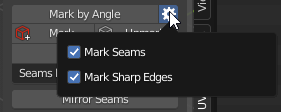
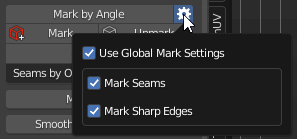
upd

diff --git a/mkdocs/changelg/release_note_3.0.md b/mkdocs/changelg/release_note_3.0.md
@@ -1,0 +1,110 @@
+# Version 3.0
+
+<div style="position: relative; width: 100%; height: 0; padding-bottom: 56.25%;">
+<iframe src="https://www.youtube.com/embed/p2bqP2I-Urc" style="position: absolute; top: 0; left: 0; width: 100%; height: 100%;" allowfullscreen="" seamless="" frameborder="0"></iframe>
+</div>
+<br><br>
+
+## General
+
+- Added Relax operator. This is a new unwrapping method that is well suited for working with organic models.
+- Added World Orient operator that rotates Islands the way they are oriented in the model.
+- Added Reshape Island operator which changes Island depending on the preset (Selected, U/V Direction, Borders). 
+- Added Copy UV / Paste UV operators to transfer UV coordinates between UV Maps.
+- Added Blender 3.2 support.
+
+## UI
+
+### Main Menu
+
+ - Added Advanced UV Maps panel to UV Editor.
+ - Changed appearance of Transform panel. Operators independent of Island/Elements settings have been moved to the top of the panel.
+
+### Pie Menu
+
+ - Added Relax operator (section 1).
+
+## Operators
+
+### Advanced UV Maps
+
+- Added Advanced UV Maps panel to UV Editor.
+- Added options to specify UV Map name template.
+- Added Copy UV / Paste UV operators to transfer UV coordinates between UV Maps.
+- Added Unwrap Modes when creating a new UV Map (Default, Smart, Cube, Cylinder, Sphere).
+- Fixed a bug when creating a new UV Map.
+
+### Seams Groups
+
+- Fixed a bug when assigning Seams without an active group. 
+
+### Unwrap
+
+- Added ability to work in Mark System not only with global properties but also with local ones.
+- Added Mark Sharp by UV Borders operator.
+- Added options to clean up existing Seams for Mark Seams by UV Borders operator.
+- Improved performance of Mark by Angle operator.
+- Fixed a bug that caused the UV map to be destroyed when changing UV coordinates when the Display - Finished was enabled.
+
+### Select
+
+- Added Select UV Borders operator.
+- Added Select Edges By Direction operator. (Blender 3.2 only)
+- Fixed a bug in UV Sync Off mode for Select Similar operator.
+
+
+### Checker Map
+
+- Added ability to tile checker texture for Material Preview and Rendered display modes.
+- Added checker texture to check Islands orientation.
+- Fixed automatic updating of the texture in UV Editor when the checker is enabled.
+- Fixed a bug when switching if the material has multiple Material Output.
+
+### Texel Density
+
+- Fixed a bug setting Texel Density for islands with zero areas.
+- Fixed a bug in working with Instances.
+- Optimized value accuracy.
+
+### Transform
+
+- Added Relax operator. This is a new unwrapping method that is well suited for working with organic models.
+- Added integration with Zen Sets addon. Used to display Island Mesh Errors in Relax operator.
+- Added World Orient operator that rotates Islands the way they are oriented in the model.
+- Added options for orienting Islands in Quadrify operator (Horizontal/Vertical).
+- Added Average Texel Density option for Quadrify operator.
+- Fixed a bug with the Quadrify operator when working with several objects when Islands were not processed and increased significantly in size.
+<br> <br>
+- Added Reshape Island operator which changes Island depending on the preset. 
+    - Selected. Aligns selected Edge Loops and relaxes unselected vertices. 
+    - U/V Direction. Aligns Edges located in the corresponding direction.
+    - Borders. Aligns edges into straight lines according to the given criteria.
+<br> <br>
+- Updated Scale operator, the input method of initial data is divided into two modes.
+    - Axis. Default mode with new Values Tuner to quickly change settings.
+    - Units. The mode in which you can set Scale based on the estimated size of the UV area.
+<br> <br>
+- Added Fit into Region operator for locating Islands in a given region with the ability to capture  Region Size from Selected Islands/Vertices.
+
+- Fixed a bug with the Fit operator when working with islands with zero thickness.
+Stack
+- Added options for shifting islands for Stack operator.
+- Added Stack Collect Mode Simple (Simple Stack, Simple Unstack).
+- Added ability to work between UV Maps for Copy/Paste operators.
+- Added Paste operator options (Stack Offset, Keep Proportion).
+- Fixed a bug with the Paste operator in polygonal mode.
+- Fixed bug of Paste operator with Transfer mode if Islands are the same.
+
+### Sticky UV Editor
+
+- Added the ability to remember Pivot settings in UV Editor.
+- Added option to open widget properties (Ctrl+Shift+LMB on the Sticky UV icon).
+- Fixed a bug when the Sticky UV Editor widget does not work in combination with Alt.
+- Fixed a bug with closing windows.
+
+### Preferences
+
+- Added a button to download the Zen Core library.
+- Added a list with all Zen add-ons.
+- Added ability to assign Modifier Key to call alternative commands in the interface.
+- Improved add-on update system. Added recommendations and filters when selecting a file.

diff --git a/mkdocs/operators/stack_copy_paste.md b/mkdocs/operators/stack_copy_paste.md
@@ -1,1 +1,67 @@
 # Copy / Paste (Stacks)
+
+Allows you to transfer the parameters from one island to another.
+
+---
+## Copy
+
+ - Copy parameters of selected Islands/Faces and save them.
+
+### Copy Operator Options
+
+![](../img/screen/stack/stack_copy_op_prefs.png)
+
+- **Island** - Copy and save parameters from the selected island.
+- **Faces** - Copy and save parameters from the selected faces.
+
+---
+## Paste
+
+ - Paste the parameters saved earlier by [Copy](#copy) to selected Islands/Faces.
+
+### Paste Operator Options
+
+![](../img/screen/stack/stack_paste_op_prefs.png)
+
+- **Type** - Which selection type needs to be processing.
+    - **Island** - Paste parameters to the selected island.
+    - **Faces** - Paste parameters to the selected faces.
+
+- **Mode** - 
+    - **Stack** - Perform stacking selection to the copied by [Copy](#copy).
+    - **Transfer** - Transfer paramethers to the selection stored by [Copy](#copy).
+
+#### Stacking Options:
+
+![](../img/screen/stack/stack_paste_mode_stack_options.png)
+
+- **Stack Offset** - Use the Stack Offset option. Learn More in this article: [Stack](../stack.md#stack)
+- **Area Matching** - Set strict requirements for Islands Area Matching when Stacking. Disable this option if the Islands have a slightly different Area.
+
+#### Transfer Options:
+
+![](../img/screen/stack/stack_paste_mode_transfer_options.png)
+
+- **Stack Offset** - Use the Stack Offset option. Learn More in this article: [Stack](../stack.md#stack)
+- **Position** - Allow transfer position.
+- **Size** - Allow transfer size.
+    - **Nothing** - Do not perform the size transferring.
+    - **Size (Fit Islands)** - Transfer the size.
+        - **Keep Proportion** - Keep the proportion of the selected island.
+        - **Horizontally / Vertically** - Which direction needs to be matched.
+    - **Texel Density** - Transfer the Texel Density.
+
+---
+## Usage Samples.
+
+### Paste: Mode - Stack.
+
+![](../img/gifs/stack_copy_paste/stack_copy_paste_sample.gif)
+
+### Paste: Mode - Transfer - Position.
+
+![](../img/gifs/stack_copy_paste/stack_c_p_transfer_pos.gif)
+
+### Paste: Mode - Transfer - Size - Fit.
+
+![](../img/gifs/stack_copy_paste/stack_c_p_transfer_size_fit.gif)

diff --git a/mkdocs/preferences.md b/mkdocs/preferences.md
@@ -1,46 +1,30 @@
-# Preferences
+# Preferences System
+
+---
+
+## Preferences subpanel
 !!! Panel
     ![Preferences](img/screen/preferences/MainPanel_2_1_3.png)
 
-## Zen UV Keymaps ![Zen UV Pie Menu](img/icons/zen-uv@2x.png)
-Set Shortcuts for Zen UV Menus.
-
-## Reset Preferences
-Reset Zen UV preferences to the Default state.
+ - ![](img/icons/zen-uv@2x.png) **Zen UV Keymaps** - Set Shortcuts for Zen UV Menus.
+ - **Reset Preferences** - Reset Zen UV preferences to the Default state.
 
 ---
 
-## Display Panel
+## Display subpanel
 ![Preferences](img/screen/preferences/PanelDisplay.png)
 
-### HOps UV Display 
-Display UV's in 3D View using Hard Ops addon.
-
-### Context-sensitive
-Enable HOps UV Display if UV Editor is open.
-
----
-### Auto Fit UV View 
-Automatically Fit and Zoom UV viewport.
+ - **HOps UV Display** - Display UV in 3D View using Hard Ops addon.
+ - **Context-sensitive** - Enable HOps UV Display if UV Editor is open.
+ - **Auto Fit UV View** - Automatically Fit and Zoom UV viewport.
+ - **Show Seams** - Display UV Seams.
+ - **Show Sharp Edges** - Display Sharp edges. It can be overlapped by Seams/Bevel Weights/Crease Edges display.
+ - **Show Bevel Weights** - Display Sharp edges. It can be overlapped by Seams/Bevel Weights/Crease Edges display.
+ - **Show Crease Edges** - Display crease edges created for the Subdivision modifier. It can be overlapped by Seams/Bevel Weights display.
 
 ---
-### Show Seams
 
-Display UV Seams.
-
-### Show Sharp Edges
-
-Display Sharp edges. It can be overlapped by Seams/Bevel Weights/Crease Edges display.
-
-### Show Bevel Weights
-
-Display Sharp edges. It can be overlapped by Seams/Bevel Weights/Crease Edges display.
-
-### Show Crease Edges
-
-Display crease edges created for the Subdivision modifier. It can be overlapped by Seams/Bevel Weights display.
-
-## Panels Panel
+## Panels subpanel
 ![Preferences](img/screen/preferences/PanelPanels.png)
 
 Allow disabling displaying unused categories.

diff --git a/mkdocs/our_addons.md b/mkdocs/our_addons.md
@@ -1,0 +1,79 @@
+# Our Add-ons.
+
+## Zen Bundle:
+
+![](img/banners/bmarket-zen-bundle.jpg)
+
+[Gumroad](https://sergeytyapkin.gumroad.com/l/ZenBundle)
+
+[Blender Market](https://www.blendermarket.com/products/zen-bundle)
+
+[Zen Bundle Documentation](https://www.blendermarket.com/products/zen-bundle/docs)
+
+---
+
+## Zen Sets:
+
+Create and manage Groups of mesh Elements (Verts, Edges, Faces)
+
+![](img/banners/bmarket-zen-sets.jpg)
+
+[Gumroad](https://gumroad.com/l/ZenSets)
+
+[Blender Market](https://www.blendermarket.com/products/zen-sets)
+
+[Zen Sets Documentation](https://zen-masters.github.io/Zen-Sets/)
+
+---
+
+## Zen UV:
+
+Optimize the UV mapping workflow
+
+![](img/banners/bmarket-zen-uv.jpg)
+
+[Gumroad](https://gumroad.com/l/ZenUV)
+
+[Blender Market](https://www.blendermarket.com/products/zen-uv)
+
+[Zen UV Documentation](https://zen-masters.github.io/Zen-UV/)
+
+---
+
+## Zen BBQ: 
+
+Build Bevels Quickly!
+
+![](img/banners/bmarket-zen-bbq.jpg)
+
+[Gumroad](https://gumroad.com/l/ZenBBQ)
+
+[Blender Market](https://www.blendermarket.com/products/zen-bbq)
+
+[Zen BBQ Documentation](https://zen-masters.github.io/Zen-BBQ/)
+
+---
+
+## Checker:
+
+Check the state of UVs (FREE)
+
+![](img/banners/bmarket-checker.jpg)
+
+[Gumroad](https://gumroad.com/l/zenuv_checker)
+
+[Blender Market](https://www.blendermarket.com/products/checker)
+
+[Zen Sets Documentation](https://zen-masters.github.io/Zen-UV/checker/ )
+
+---
+
+## Console Top Most:
+
+Make the System Console to the TOPMOST window
+
+![](img/banners/bmarket-console-topmost.jpg)
+
+[Gumroad](https://gumroad.com/l/ZenConsoleTopMost)
+
+[Blender Market](https://www.blendermarket.com/products/zen-console-top-most-for-blender)

diff --git a/mkdocs/sticky_uv_editor.md b/mkdocs/sticky_uv_editor.md
@@ -1,1 +1,32 @@
-# Sticky UV Editor
+# Sticky UV Editor.
+
+Sticky UV Editor this is a system that allows opening UV Editor on the left or the right from the active 3D Viewport or as a separate window. These actions can be done by shortcuts or using a widget in the 3D Viewport.
+
+![](img/screen/sticky_uv_editor/stk_widget.png)
+
+The side opening UV Editor depends on the on-screen position of the widget.
+
+## Sticky UV Editor Properties.
+
+The properties of the Sticky UV Editor are placed in the addon preferences.
+
+![](img/screen/sticky_uv_editor/stk_uv_ed_prefs.png)
+
+### General
+
+ - **UV Editor Side** - The side where the UV Editor will be shown.
+ - **Show Operate Button** - The visibility of the on-screen widget. Next on the checkbox is the field for the position of the widget.
+ - **Remember UV Editor Settings** - Every time UV Editor is opened, all the options activated in the previous session will be remembered and restored to the current session.
+
+### Overlay
+
+The Overlay tab is the copy of the Blender's UV Editor Overlay popup. Once usage of the **Remember UV Editor Settings** is not needed, all the settings from the Overlay tab will be used for every creation of the UV Editor until the user changes the options manually.
+
+### View
+
+The View tab has the same purposes as the **Overlay** tab. Except of controls. It tune the state of the panels in the UV Editor.
+
+### About
+
+The original idea and the development of the Sticky UV Editor belong to Oleg Stepanov (DotBow).
+So, here is the [link](https://github.com/DotBow/Blender-Sticky-UV-Editor-Add-on) to the page with an original addon.

diff --git a/mkdocs/help.md b/mkdocs/help.md
@@ -3,9 +3,9 @@
 !!! Panel
     ![Help](img/screen/help/help.png)
 
-## Documentation
+## [Documentation](https://zen-masters.github.io/Zen-UV/)
 
-Link to the documentation of the current version.
+[Link](https://zen-masters.github.io/Zen-UV/) to the documentation of the current version.
 
 ## ![Discord](img/icons/services/discord-16.png) [**Discord**](https://discord.gg/wGpFeME)
 
@@ -13,7 +13,8 @@ Link to the documentation of the current version.
 
 ## Version
 
-Current version of Zen UV
+Current version of the [Zen UV](https://www.blendermarket.com/products/zen-uv).
+
 
 ## Core
 

diff --git a/mkdocs/unwrap.md b/mkdocs/unwrap.md
@@ -37,7 +37,7 @@ Mark selected edges/faces as Seams and/or Sharp edges and Unwrap by Marked edges
 
 !!! Preferences
     ![](img/screen/unwrap/mark_by_angle_prefs.png)
-
+    - **Use Global Mark Settings** - In this mode, all the operators from the Mark System use the settings below. If off, every operator uses its own settings.
     - **Mark Seams** - Automatically assign Seams
     - **Mark Sharp Edges** - Automatically assign Sharp edges
 

diff --git a/mkdocs/index.md b/mkdocs/index.md
@@ -1,4 +1,4 @@
-# Zen UV for Blender 3.0 (Relax)
+# Zen UV v3.0 for Blender.
 <!-- [![Zen UV Introduction](img/cover--eng.png)](https://www.youtube.com/watch?v=ook2eFfH724) -->
 ![stand_with_Ukraine](img/I_stand_with_Ukraine_banner.svg)
 <div style="position: relative; width: 100%; height: 0; padding-bottom: 56.25%;">

diff --git a/mkdocs/changelg.md b/mkdocs/changelg.md
@@ -1,5 +1,6 @@
 # Changelog
 ---
+- [Version 3.0](changelg/release_note_3.0.md)
 - [Version 2.2.3](changelg/release_note_2.2.3.md)
 - [Version 2.2.2](changelg/release_note_2.2.2.md)
 - [Version 2.2.1](changelg/release_note_2.2.1.md)
